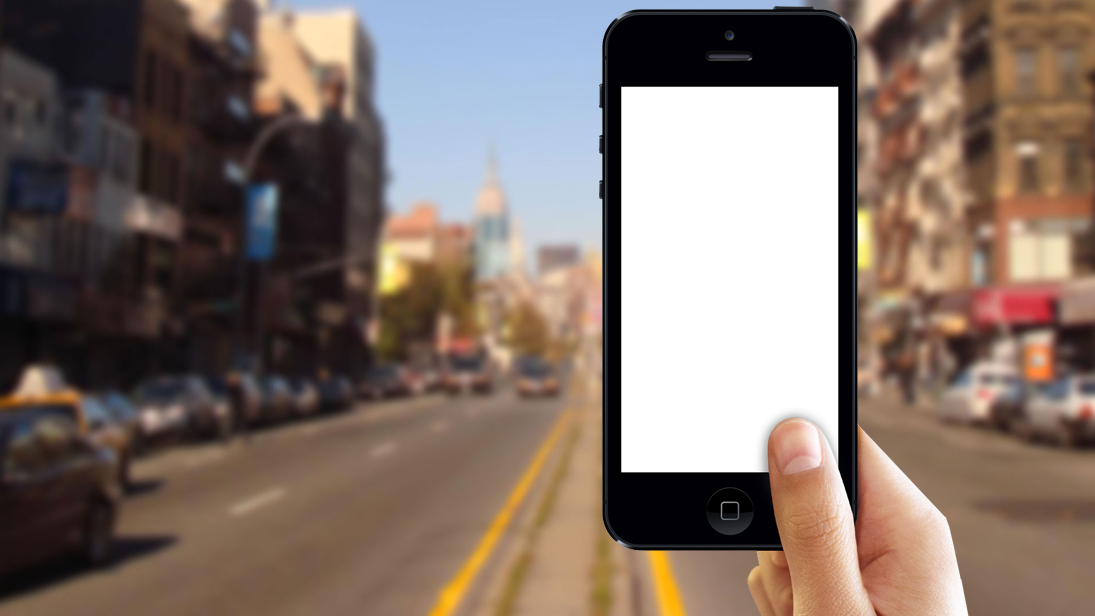
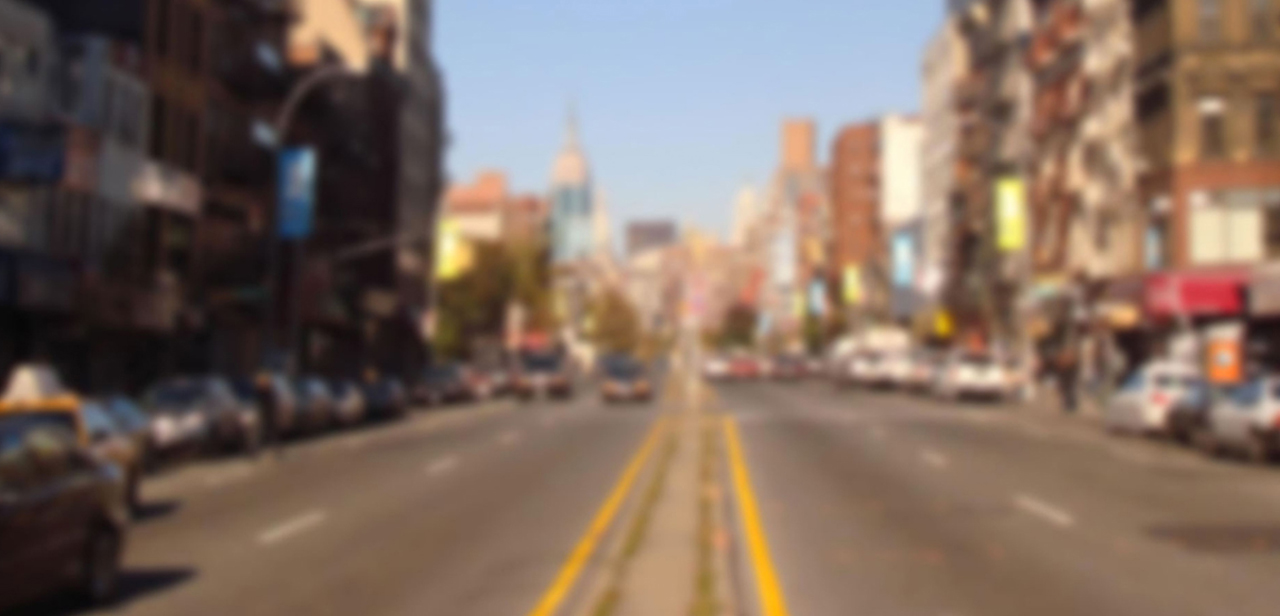
hello nyc

diff --git a/thinksimple/css/kiru.css b/thinksimple/css/kiru.css
@@ -115,7 +115,10 @@ body { font-family:'Lucida Grande'; background:#333; }
 	.group_bannner_left { padding-top:170px; height:350px; color:white; padding-left:30px; }
 	.group_bannner_left h2 { font-weight:normal; font-size:20px; color:white; float:left; clear:both; margin:0; padding-top:0px; }
 	.group_bannner_left h1 { font-weight:normal; font-size:54px; color:#ccc; float:left; font-weight:bold; }
-
+    .group_bannner_left img { }
+    #hand{position: relative; bottom: 518px; left: 587px}
+    #ios_image_mini {position: absolute; left: 9px; top: 80px;}
+    
 	#holder_container { background:white; font-family:"Helvetica Neue", Helvetica, Arial, sans-serif; padding-top:30px;  padding-bottom:70px;}
 	#holder_content { overflow:hidden; margin:0 auto; width:1060px; padding:20px 0; }
 	#holder_content .item { width:300px; background:white; float:left; margin-right:10px; padding:15px; border:1px solid #eee; border-radius:3px; color:#666; }

diff --git a/thinksimple/index.html b/thinksimple/index.html
@@ -63,12 +63,17 @@
      <div class="app_width">
      
      <header class="group_bannner_left">
-          <h1 id="lkk">Simple.Think. </h1>
+          <img id="new_york_21312" src="images/over_logo.png">
           <div class="clear"></div>
           <h2 id="ldkk">“The little things are infinitely the most important.“ 
           </h2>
           <div class="clear"></div>
      </header>
+
+     <div id="hand">
+       <img id="" class="hand_img_mini" src="images/hand.png" alt="logo"/>       
+       <img id="ios_image_mini" src="images/new_york_mini.png" alt="logo"/>
+     </div>
 
  </div>
 
